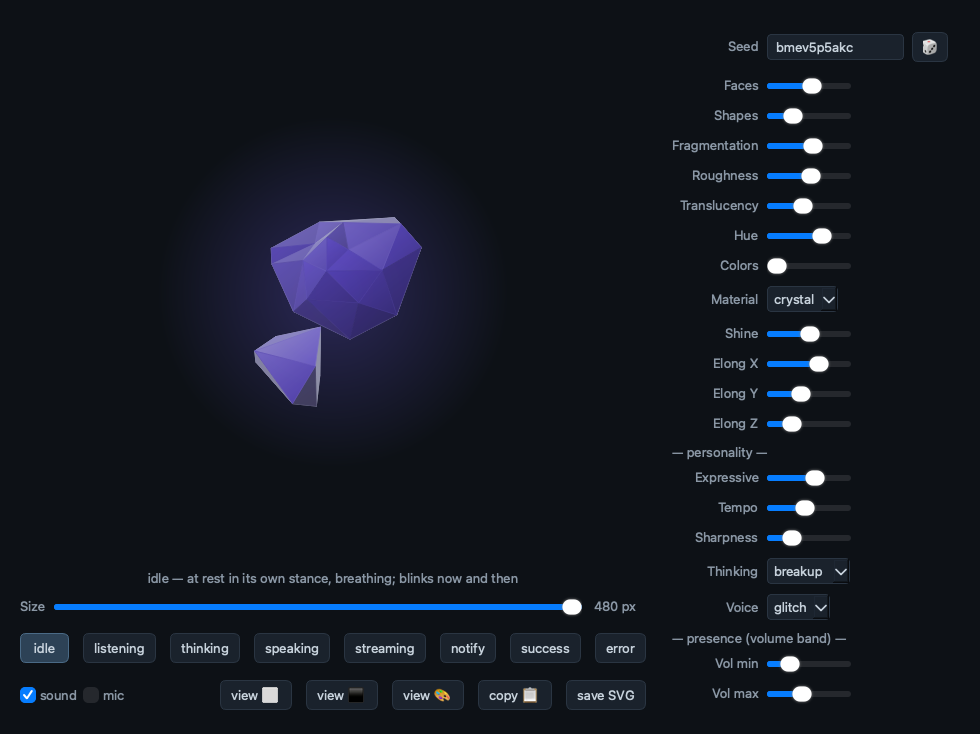
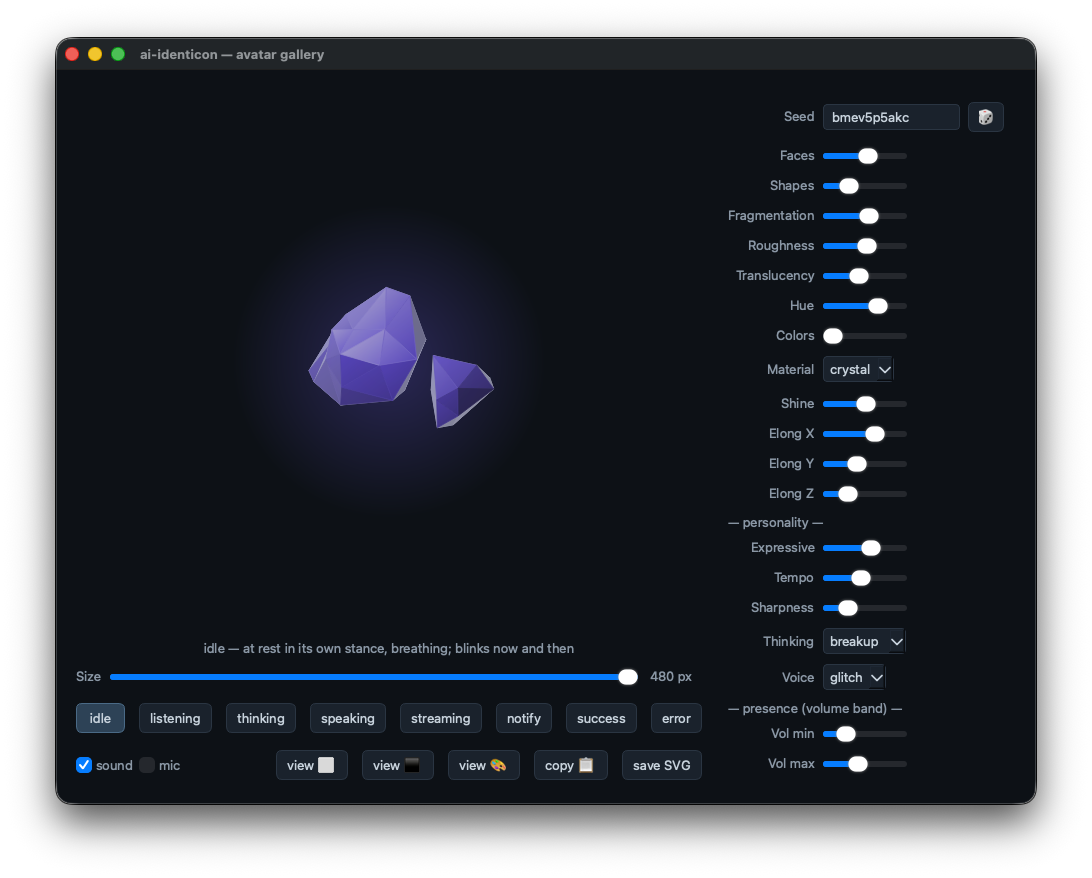
docs: restore the hand-captured gallery shot, with window chrome
The generated shot was a flat rectangle: QWidget.grab() captures widget
content, so it cannot produce the macOS title bar and drop shadow that made
the original read as a running app rather than a mockup. Screen Recording
permission would let the script capture the real window, but macOS refuses
it here, so this one was taken by hand — 1092x878 RGBA with transparency,
matching the original's framing, showing all eight states and the Size row.

Also stops the generator from clobbering it. Previously, running
render_gallery_shot.py without Screen Recording permission would silently
replace a hand-captured window shot with the chrome-less fallback — a
downgrade nobody asked for and nobody would spot until review. It now
writes to docs/gallery-nochrome.png (gitignored) and says so, leaving any
existing shot alone.

Note the committed shot predates 85452d0 by three minutes, so its orb is at
the old zoom of 1.0 rather than the new 1.10 — about 9% small. Worth
re-taking next time the app is open, not worth blocking on.

diff --git a/scripts/render_gallery_shot.py b/scripts/render_gallery_shot.py
@@ -109,7 +109,15 @@ def main() -> int:
     if why is None:
         how = "real window via screencapture (title bar + shadow)"
     else:
+        # Do NOT clobber an existing shot with the chrome-less fallback. The
+        # committed docs/gallery.png may be a hand-captured window complete
+        # with title bar and shadow; quietly replacing it with a flat
+        # rectangle because a permission is missing would be a downgrade
+        # nobody asked for and nobody would notice until review.
         how = "chrome-less QWidget.grab()"
+        if os.path.exists(out):
+            out = out.replace(".png", "-nochrome.png")
+            how += " — WROTE ELSEWHERE, existing shot left untouched"
         demo.grab().save(out, "PNG")
         print(f"  note: window capture unavailable — {why}\n"
               "        (grant Screen Recording to the terminal running this,"
